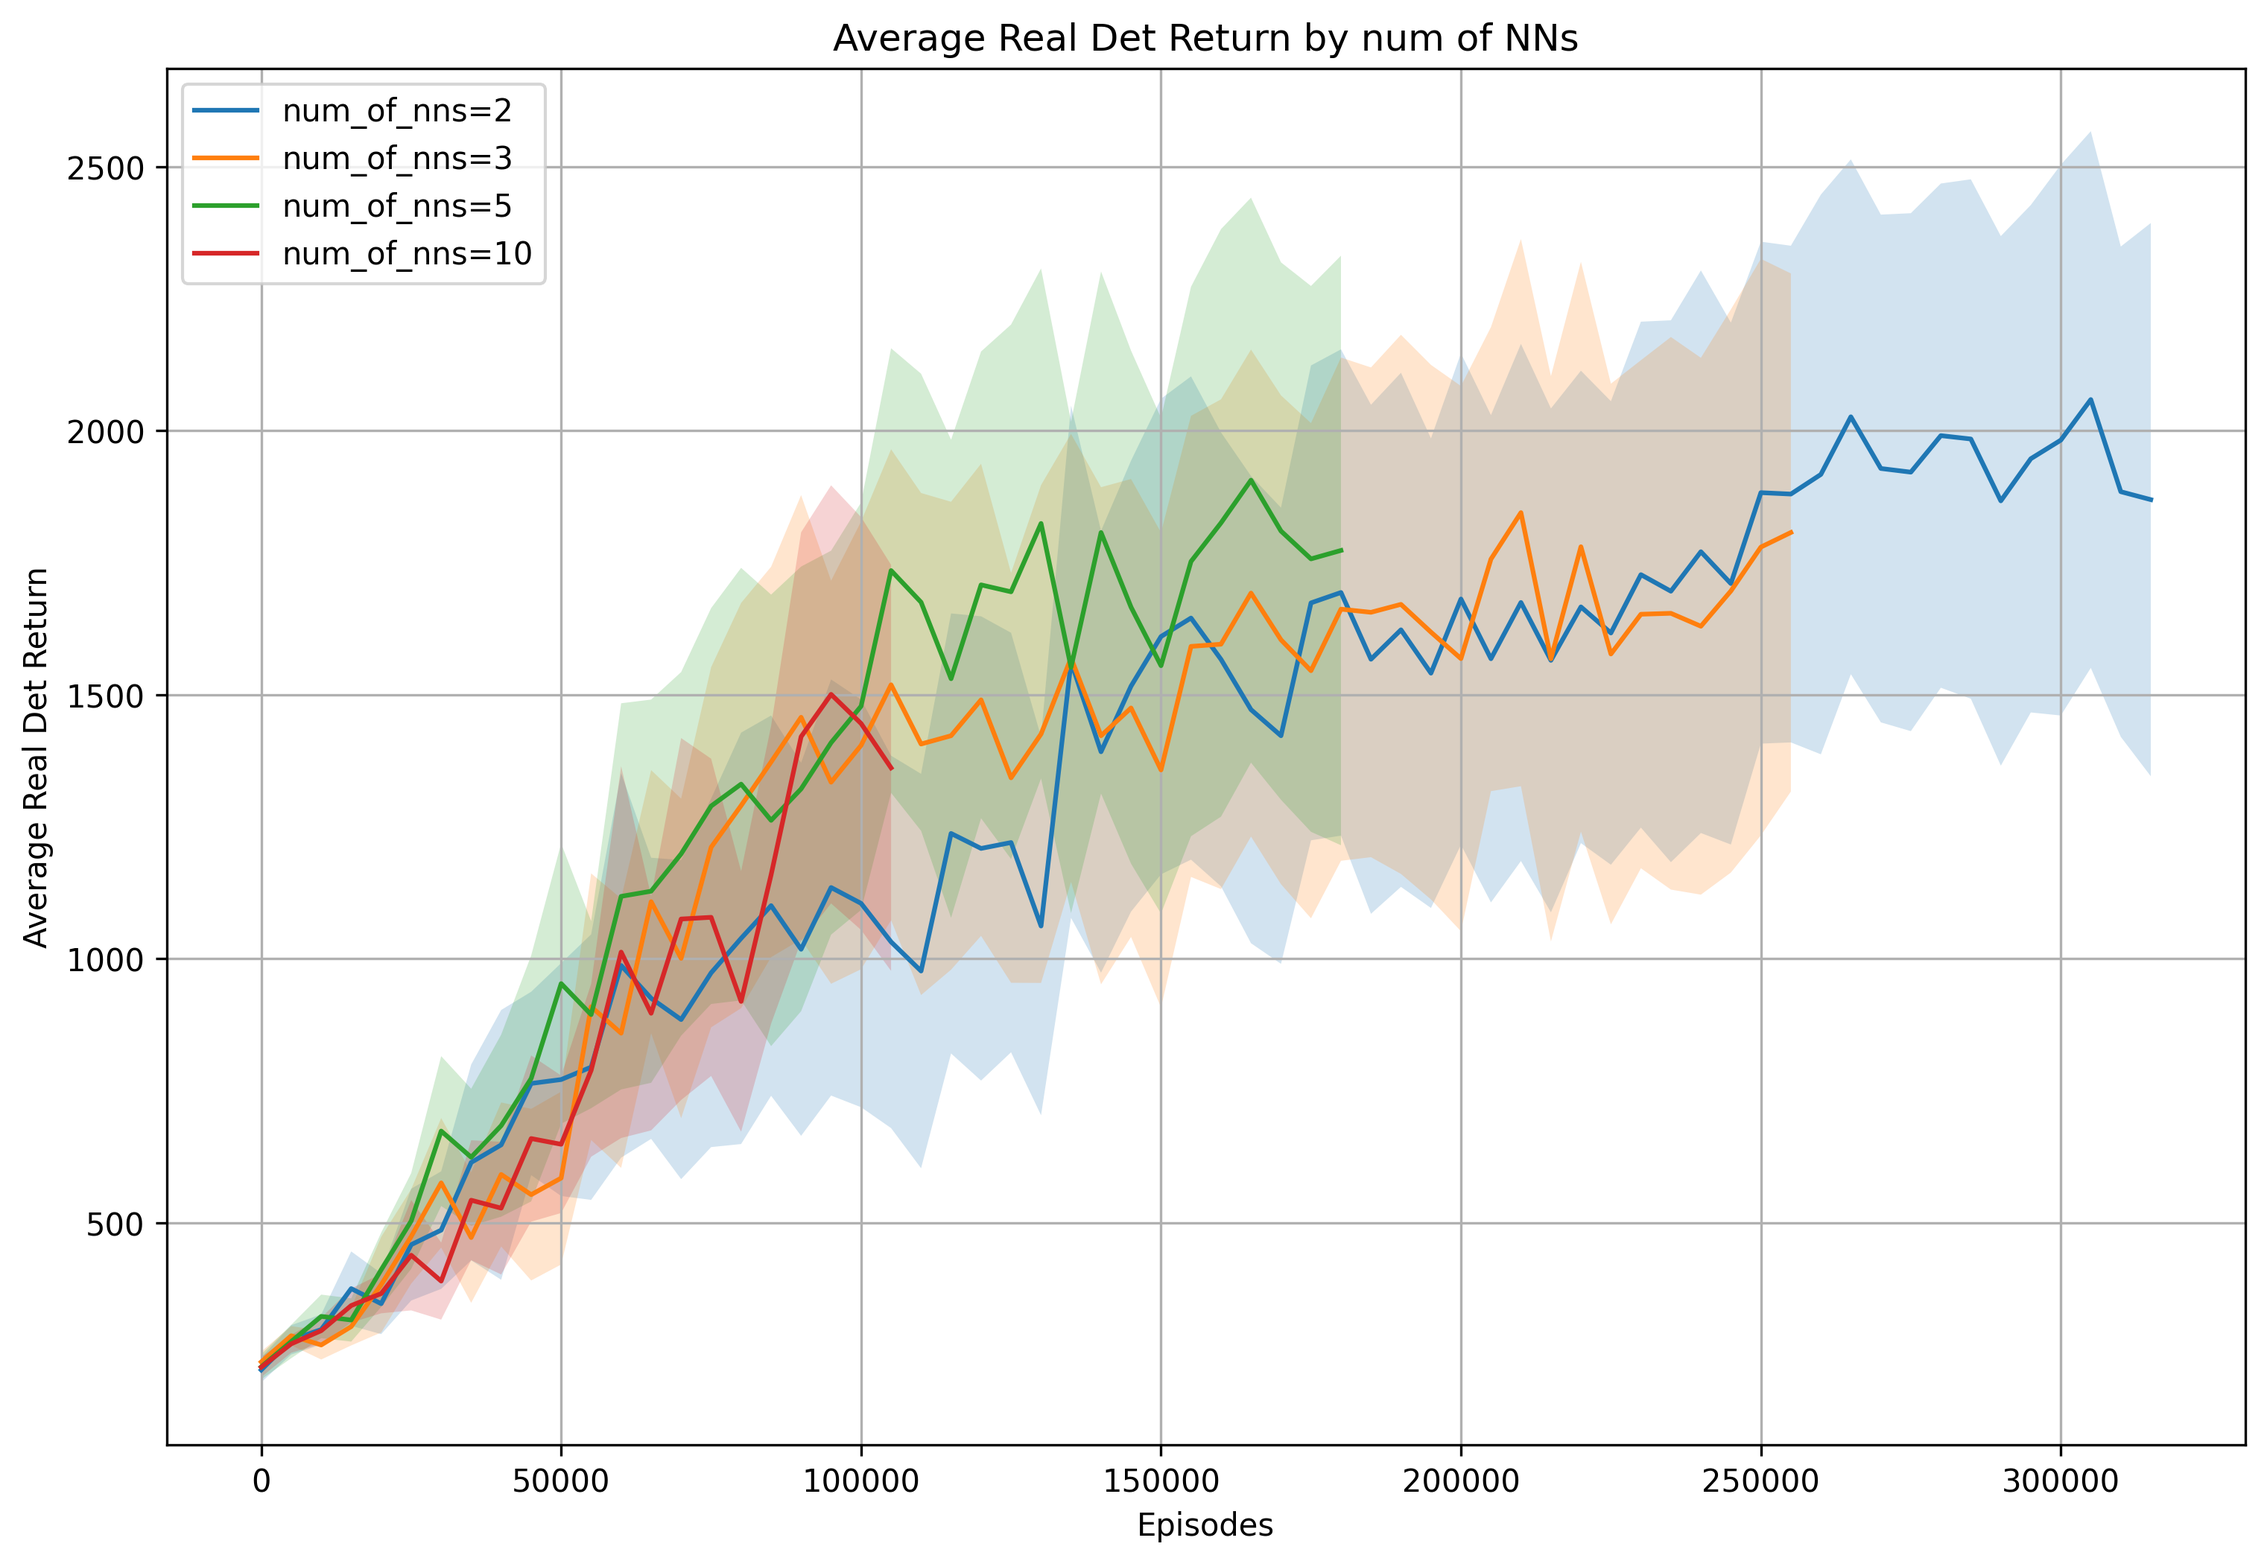
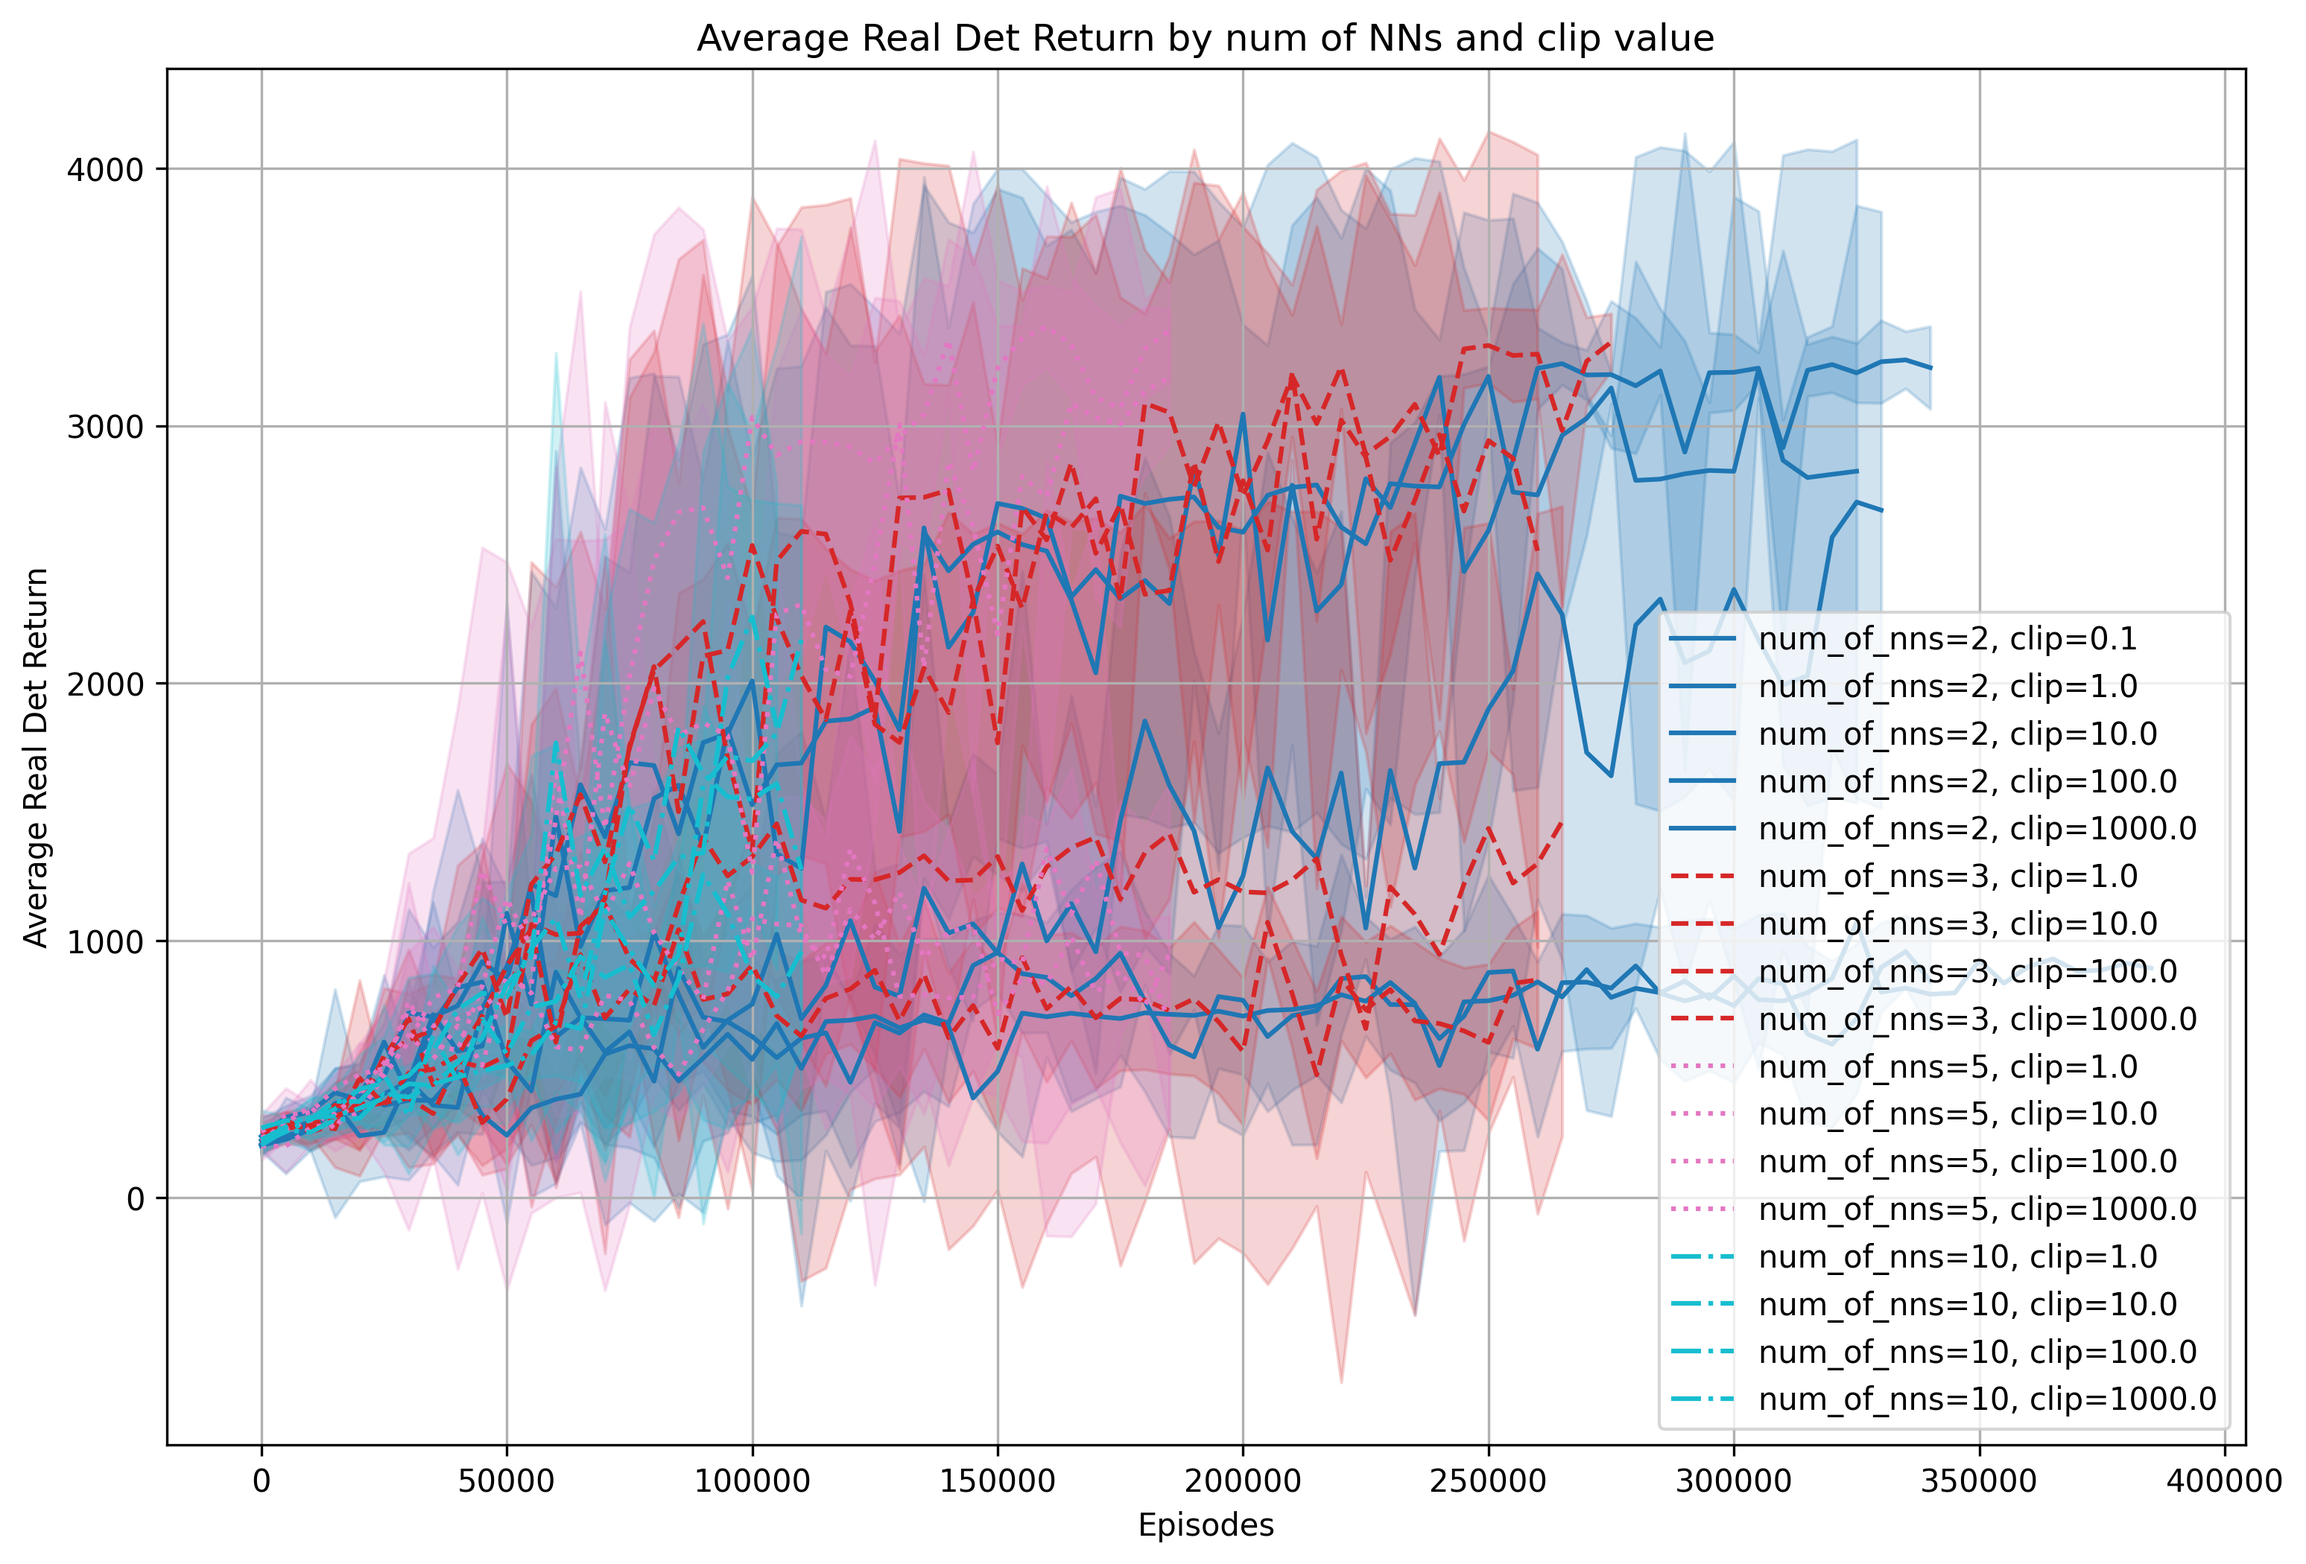
plotting

diff --git a/plots/average_det_reward.py b/plots/average_det_reward.py
@@ -31,7 +31,7 @@ def extract_q(folder_name):
 
 # Function to extract clip value from folder name
 def extract_clip(folder_name):
-    match = re.search(r'clip(\d+)\.log$', folder_name)
+    match = re.search(r'qstd(\d+\.\d+)', folder_name)
     return float(match.group(1)) if match else None
 
 # Get all folders after 2024-11-10 14-30
@@ -43,19 +43,21 @@ q_clip_results = {}
 
 for folder in folders:
     folder_date = parse_datetime(folder)
-    if folder_date >= target_date:
-        q = extract_q(folder)
-        clip = extract_clip(folder)
-        if q is not None and clip is not None:
-            try:
-                df = pd.read_csv(f'{folder}/progress.csv')
-                key = (q, clip)
-                if key not in q_clip_results:
-                    q_clip_results[key] = []
-                q_clip_results[key].append(df['Real Det Return'].values)
-            except Exception as e:
-                print(f"Error reading file in folder: {folder}")
-                print(f"Error: {e}")
+
+    q = extract_q(folder)
+    clip = extract_clip(folder)
+    print(f"q={q}, clip={clip}")
+    if q is not None and clip is not None:
+        print(f"Reading folder: {folder}")
+        try:
+            df = pd.read_csv(f'{folder}/progress.csv')
+            key = (q, clip)
+            if key not in q_clip_results:
+                q_clip_results[key] = []
+            q_clip_results[key].append(df['Real Det Return'].values)
+        except Exception as e:
+            print(f"Error reading file in folder: {folder}")
+            print(f"Error: {e}")
 
 # Create and save the plot
 plt.figure(figsize=(12, 8))
